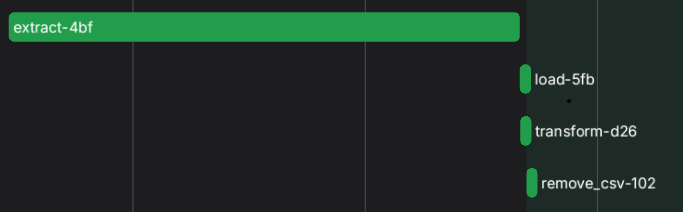
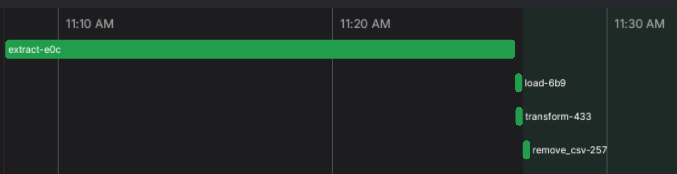
Updated Readme

Changed region(s): [[0.0, 0.0575, 0.9306, 0.7184], [0.7445, 0.7759, 0.9616, 0.9483], [0.8996, 0.1149, 0.9926, 0.1724]]

diff --git a/README.md b/README.md
@@ -1,6 +1,6 @@
 **Prague Apartments Analytics**
 
-This project consists a lightweight data pipeline for collecting, transforming, and visualizing apartment listings in Prague from sreality.cz.
+This project consists of a lightweight, full-stack data pipeline for collecting, transforming, and visualizing apartment listings in Prague from sreality.cz.
 
 **Streamlit**
 
@@ -22,11 +22,13 @@ Databases: Hosted on Heroku. 1 for development, 1 for production
 
 **3.Visualization**
 Final datasets are visualized with Streamlit and Altair.
+    - Listings Exploration using sidebar filters
+    - Market Analytics with bar charts about real estate market.
 
 Tech Stack:
 - **Scraping:** Playwright
 - **Orchestration:** Prefect (as Airflow alternative)
-- **Transformation:** dbt + Postgres
+- **Transformation:** dbt
 - **Databases:** Heroku Postgres (Dev + Prod)
 - **Logging**: Python logging module
 - **Metadata**: dbt docs
@@ -35,6 +37,12 @@ Tech Stack:
 **DBT Lineage:**
 ![Lineage](lineage.png)
 
-**ELT process:** Runs daily at 6 AM UTC
+**ELT process:** 
+- Runs daily at 6 AM UTC
+- Consists of 4 tasks: 
+    1. Extract (Web Scraping)
+    2. Load (Upload to Postgres)
+    3. Transform (Execute DBT models)
+    4. Delete CSV file from memory.
 ![ELT](elt.png)
 
